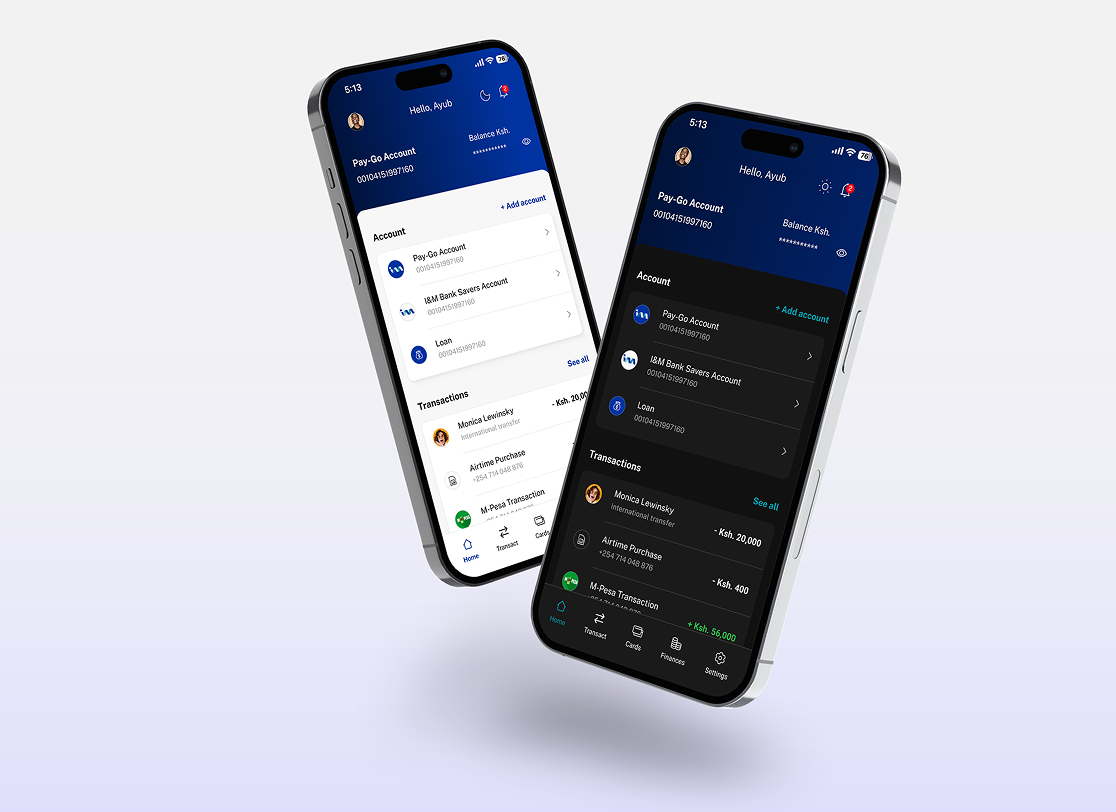
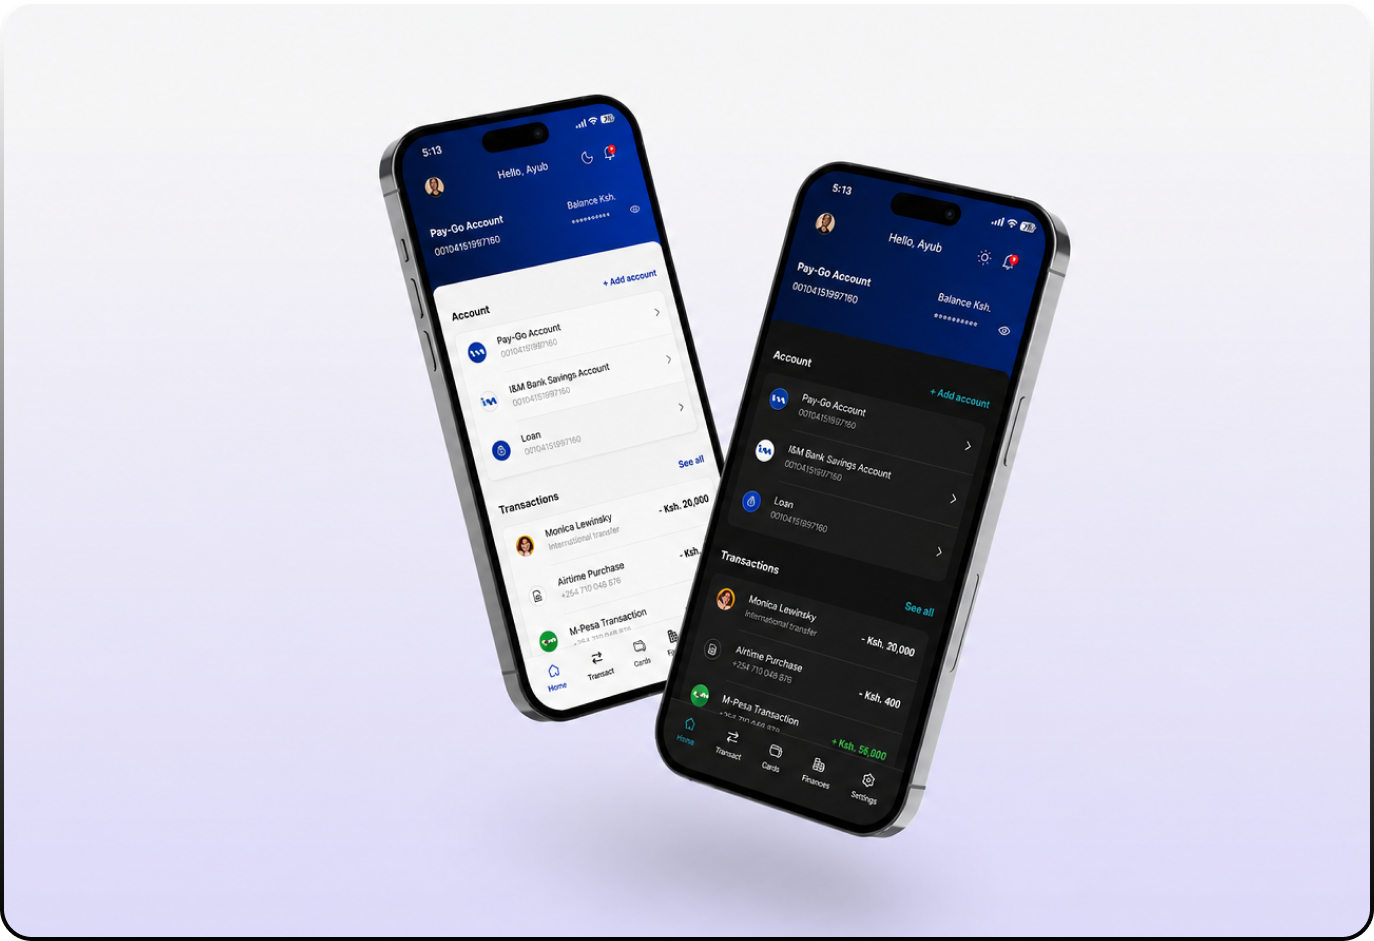
Seamless mobile nav, shorter toast, updated resume, case-study polish
- Replace the Kenyan Banking Redesign and Danadana featured-work
  thumbnails with new images (banking's file is shared with its
  case-study cover, so both update together)
- Replace the remaining Unicode arrows on the Landing page's
  LinkedIn/Resume buttons with the SVG line icon used elsewhere
- Reduce the gap between each story subheading and its body text on
  the About page (16px -> 8px, all 5 entries)
- Preload + defer support.js on all 6 pages so the dark background
  paints before the script blocks parsing, reducing the white flash
  on page-to-page navigation (support.js already handles both
  readyState cases, so this is a safe, non-functional change)

Changed region(s): [[0.2742, 0.0308, 0.8226, 0.9236], [0.0, 0.1539, 1.0, 1.0]]

diff --git a/Ayub Leon - About.dc.html b/Ayub Leon - About.dc.html
@@ -16,7 +16,8 @@
 <meta name="twitter:description" content="Get to know Ayub Leon, a product designer — how he got into design, what drives his work, and what he does outside of Figma.">
 <meta name="twitter:image" content="https://ayub-leon-portfolio.vercel.app/images/image-2.png">
 <style>html, body { background: #000000; margin: 0; }</style>
-<script src="./support.js"></script>
+<link rel="preload" as="script" href="./support.js">
+<script src="./support.js" defer></script>
 </head>
 <body>
 <x-dc>
@@ -164,21 +165,21 @@
         <h2 style="margin: 0; max-width: 26ch; font-family: Poppins, Helvetica, sans-serif; font-size: clamp(1.25rem, 1.9vw, 1.7rem); font-weight: 500; line-height: 1.32; letter-spacing: -0.02em; color: #f2ece9; text-wrap: pretty;">How I got here, paired with some frames from my last trip home to <em style="font-family: 'Instrument Serif', Georgia, serif; font-style: italic; font-weight: 400; color: #FFFFFF">Mombasa</em></h2>
         <div>
           <p style="margin: 0 0 10px; font-family: 'JetBrains Mono', monospace; font-size: 12px; color: rgba(240,232,229,0.42);">1</p>
-          <h3 style="margin: 0 0 16px; font-family: Poppins, Helvetica, sans-serif; font-size: 1.16rem; font-weight: 500; letter-spacing: -0.015em; color: #f4eeeb;">The Accidental Beginning</h3>
+          <h3 style="margin: 0 0 8px; font-family: Poppins, Helvetica, sans-serif; font-size: 1.16rem; font-weight: 500; letter-spacing: -0.015em; color: #f4eeeb;">The Accidental Beginning</h3>
           <p style="margin: 0; max-width: 58ch; font-size: 14.5px; line-height: 1.72; color: rgba(239,232,229,0.9); text-wrap: pretty;">I got into design by accident. In high school, I didn't know I was doing UI, I just liked figuring out how things should work, and that habit of building before anyone asked never really left. The rest of that story is one I'd rather tell you in person.</p>
         </div>
       </div>
 
       <div data-reveal="1">
         <p style="margin: 0 0 10px; font-family: 'JetBrains Mono', monospace; font-size: 12px; color: rgba(240,232,229,0.42);">2</p>
-        <h3 style="margin: 0 0 16px; font-family: Poppins, Helvetica, sans-serif; font-size: 1.16rem; font-weight: 500; letter-spacing: -0.015em; color: #f4eeeb;">Beyond the Brief</h3>
+        <h3 style="margin: 0 0 8px; font-family: Poppins, Helvetica, sans-serif; font-size: 1.16rem; font-weight: 500; letter-spacing: -0.015em; color: #f4eeeb;">Beyond the Brief</h3>
         <p style="margin: 0 0 18px; max-width: 58ch; font-size: 14.5px; line-height: 1.72; color: rgba(239,232,229,0.9); text-wrap: pretty;">Curiosity is where it all started, and it's still what drives how I work. I don't just execute a brief, I've pitched features directors hadn't even considered, ones that ended up benefiting the business directly. That same curiosity has put me in a position of trust more than once.</p>
           <p style="margin: 0; max-width: 58ch; font-size: 14.5px; line-height: 1.72; color: rgba(239,232,229,0.9); text-wrap: pretty;">In the startups I've worked with, I've gone beyond design, attending conferences to pitch the product directly to potential customers, and been part of decisions on new hires. Not things most designers get pulled into, but I've never shied away from it.</p>
       </div>
 
       <div data-reveal="2">
         <p style="margin: 0 0 10px; font-family: 'JetBrains Mono', monospace; font-size: 12px; color: rgba(240,232,229,0.42);">3</p>
-        <h3 style="margin: 0 0 16px; font-family: Poppins, Helvetica, sans-serif; font-size: 1.16rem; font-weight: 500; letter-spacing: -0.015em; color: #f4eeeb;">Built for Chaos</h3>
+        <h3 style="margin: 0 0 8px; font-family: Poppins, Helvetica, sans-serif; font-size: 1.16rem; font-weight: 500; letter-spacing: -0.015em; color: #f4eeeb;">Built for Chaos</h3>
         <p style="margin: 0; max-width: 58ch; font-size: 14.5px; line-height: 1.72; color: rgba(239,232,229,0.9); text-wrap: pretty;">My path through UI/UX hasn't followed one straight lane either, it's moved across industries and problems, and I've had to adapt fast each time. That's only possible because I stay genuinely stimulated by learning new things, adaptability and curiosity feed each other for me.</p>
       </div>
     </div>
@@ -211,12 +212,12 @@
     <div class="story-grid-2" style="display: grid; grid-template-columns: repeat(2, minmax(0, 1fr)); gap: 56px 72px; margin-top: 64px; align-items: start;">
       <div data-reveal="1">
         <p style="margin: 0 0 10px; font-family: 'JetBrains Mono', monospace; font-size: 12px; color: rgba(240,232,229,0.42);">4</p>
-        <h3 style="margin: 0 0 16px; font-family: Poppins, Helvetica, sans-serif; font-size: 1.16rem; font-weight: 500; letter-spacing: -0.015em; color: #f4eeeb;">Off the Clock or When I Close Figma</h3>
+        <h3 style="margin: 0 0 8px; font-family: Poppins, Helvetica, sans-serif; font-size: 1.16rem; font-weight: 500; letter-spacing: -0.015em; color: #f4eeeb;">Off the Clock or When I Close Figma</h3>
         <p style="margin: 0; max-width: 58ch; font-size: 14.5px; line-height: 1.72; color: rgba(239,232,229,0.9); text-wrap: pretty;">Outside of work, I'm usually tweaking my designs, deep in an educational YouTube rabbit hole (astronomy, car builds, DIY home builds, tech, tweaking consoles), traveling to the coast with my camera, gaming, volunteering in handwork stuff like building with wood, or checking out whatever tech just dropped.</p>
       </div>
       <div data-reveal="2">
         <p style="margin: 0 0 10px; font-family: 'JetBrains Mono', monospace; font-size: 12px; color: rgba(240,232,229,0.42);">5</p>
-        <h3 style="margin: 0 0 16px; font-family: Poppins, Helvetica, sans-serif; font-size: 1.16rem; font-weight: 500; letter-spacing: -0.015em; color: #f4eeeb;">The Rest of the Story</h3>
+        <h3 style="margin: 0 0 8px; font-family: Poppins, Helvetica, sans-serif; font-size: 1.16rem; font-weight: 500; letter-spacing: -0.015em; color: #f4eeeb;">The Rest of the Story</h3>
         <p style="margin: 0; max-width: 58ch; font-size: 14.5px; line-height: 1.72; color: rgba(239,232,229,0.9); text-wrap: pretty;">There's more to the story than fits here, and if you just want the fuller story, reach out, I like these conversations.</p>
       </div>
     </div>

diff --git a/Ayub Leon - Landing Page.dc.html b/Ayub Leon - Landing Page.dc.html
@@ -16,7 +16,8 @@
 <meta name="twitter:description" content="Portfolio of Ayub Leon, a product designer with 4+ years of experience building TikTok Shop platforms, crash betting games, banking apps, and design systems.">
 <meta name="twitter:image" content="https://ayub-leon-portfolio.vercel.app/images/image-2.png">
 <style>html, body { background: #000000; margin: 0; }</style>
-<script src="./support.js"></script>
+<link rel="preload" as="script" href="./support.js">
+<script src="./support.js" defer></script>
 </head>
 <body>
 <x-dc>
@@ -235,12 +236,12 @@
         <a data-glass="1" href="https://www.linkedin.com/in/ayubleon" target="_blank" rel="noopener noreferrer" style="position: relative; display: inline-flex; align-items: center; gap: 9px; padding: 11px 24px; border-radius: 999px; overflow: hidden; isolation: isolate; background: rgba(255,255,255,0.05); backdrop-filter: blur(14px) saturate(1.4); -webkit-backdrop-filter: blur(14px) saturate(1.4); box-shadow: inset 0 0 0 1px rgba(255,255,255,0.16), inset 0 1px 0 rgba(255,255,255,0.14); color: #f8f2ef; font-family: Poppins, Helvetica, sans-serif; font-size: 15px; font-weight: 500; letter-spacing: -0.005em;" style-hover="background: rgba(255,255,255,0.09);">
           <span data-glass-shimmer="1" aria-hidden="true" style="position: absolute; left: 0; top: 0; width: 200px; height: 200px; margin: -100px 0 0 -100px; pointer-events: none; opacity: 0; transition: opacity .35s ease; background: radial-gradient(circle, rgba(255,255,255,0.85) 0%, rgba(255,255,255,0.18) 38%, rgba(255,255,255,0) 66%);"></span>
           <span data-glass-face="1" aria-hidden="true" style="position: absolute; inset: 1.2px; border-radius: 999px; background: rgba(14,9,8,0.86); backdrop-filter: blur(14px); -webkit-backdrop-filter: blur(14px);"></span>
-          <span style="position: relative; display: inline-flex; align-items: center; gap: 9px;">LinkedIn <span style="font-size: 13px;">↗</span></span>
+          <span style="position: relative; display: inline-flex; align-items: center; gap: 9px;">LinkedIn <svg width="11" height="11" viewBox="0 0 24 24" fill="none" stroke="currentColor" stroke-width="2.4" stroke-linecap="round" stroke-linejoin="round" style="display: inline-block; flex: 0 0 auto;"><path d="M7 17 17 7M17 7H8M17 7v9"/></svg></span>
         </a>
         <a data-glass="1" href="Ayub%20Leon%20-%20Resume.pdf" target="_blank" rel="noopener noreferrer" style="position: relative; display: inline-flex; align-items: center; gap: 9px; padding: 11px 24px; border-radius: 999px; overflow: hidden; isolation: isolate; background: rgba(255,255,255,0.05); backdrop-filter: blur(14px) saturate(1.4); -webkit-backdrop-filter: blur(14px) saturate(1.4); box-shadow: inset 0 0 0 1px rgba(255,255,255,0.16), inset 0 1px 0 rgba(255,255,255,0.14); color: #f8f2ef; font-family: Poppins, Helvetica, sans-serif; font-size: 15px; font-weight: 500; letter-spacing: -0.005em;" style-hover="background: rgba(255,255,255,0.09);">
           <span data-glass-shimmer="1" aria-hidden="true" style="position: absolute; left: 0; top: 0; width: 200px; height: 200px; margin: -100px 0 0 -100px; pointer-events: none; opacity: 0; transition: opacity .35s ease; background: radial-gradient(circle, rgba(255,255,255,0.85) 0%, rgba(255,255,255,0.18) 38%, rgba(255,255,255,0) 66%);"></span>
           <span data-glass-face="1" aria-hidden="true" style="position: absolute; inset: 1.2px; border-radius: 999px; background: rgba(14,9,8,0.86); backdrop-filter: blur(14px); -webkit-backdrop-filter: blur(14px);"></span>
-          <span style="position: relative; display: inline-flex; align-items: center; gap: 9px;">Resume <span style="font-size: 13px;">↗</span></span>
+          <span style="position: relative; display: inline-flex; align-items: center; gap: 9px;">Resume <svg width="11" height="11" viewBox="0 0 24 24" fill="none" stroke="currentColor" stroke-width="2.4" stroke-linecap="round" stroke-linejoin="round" style="display: inline-block; flex: 0 0 auto;"><path d="M7 17 17 7M17 7H8M17 7v9"/></svg></span>
         </a>
       </div>
 

diff --git a/Danadana.dc.html b/Danadana.dc.html
@@ -16,7 +16,8 @@
 <meta name="twitter:description" content="Case study: Danadana, the first Kenyan-made crash betting game, engineered for high-frequency engagement. Product designer, Plexus Core, Aug 2024 – Jun 2025.">
 <meta name="twitter:image" content="https://ayub-leon-portfolio.vercel.app/images/work-danadana-cover.png">
 <style>html, body { background: #000000; margin: 0; }</style>
-<script src="./support.js"></script>
+<link rel="preload" as="script" href="./support.js">
+<script src="./support.js" defer></script>
 </head>
 <body>
 <x-dc>

diff --git a/Kenyan Banking Redesign.dc.html b/Kenyan Banking Redesign.dc.html
@@ -16,7 +16,8 @@
 <meta name="twitter:description" content="Case study: a self-initiated redesign fixing digital banking friction across four major Kenyan banking apps — DTB, Co-op Omni, NCBA Loop, and I&amp;M.">
 <meta name="twitter:image" content="https://ayub-leon-portfolio.vercel.app/images/work-banking.png">
 <style>html, body { background: #000000; margin: 0; }</style>
-<script src="./support.js"></script>
+<link rel="preload" as="script" href="./support.js">
+<script src="./support.js" defer></script>
 </head>
 <body>
 <x-dc>

diff --git a/BuzzIQ.dc.html b/BuzzIQ.dc.html
@@ -16,7 +16,8 @@
 <meta name="twitter:description" content="Case study: BuzzIQ, a TikTok Shop intelligence platform built to scale creator commerce. Sole product designer, IGNITEAMZ, Sep 2025 – 2026.">
 <meta name="twitter:image" content="https://ayub-leon-portfolio.vercel.app/images/work-buzziq-cover.png">
 <style>html, body { background: #000000; margin: 0; }</style>
-<script src="./support.js"></script>
+<link rel="preload" as="script" href="./support.js">
+<script src="./support.js" defer></script>
 </head>
 <body>
 <x-dc>

diff --git a/Unified Design System.dc.html b/Unified Design System.dc.html
@@ -16,7 +16,8 @@
 <meta name="twitter:description" content="Case study: a scalable shadcn-based component framework built to power two products, Danadana and BuzzIQ, from one consistent system.">
 <meta name="twitter:image" content="https://ayub-leon-portfolio.vercel.app/images/work-design-system-cover.png">
 <style>html, body { background: #000000; margin: 0; }</style>
-<script src="./support.js"></script>
+<link rel="preload" as="script" href="./support.js">
+<script src="./support.js" defer></script>
 </head>
 <body>
 <x-dc>
